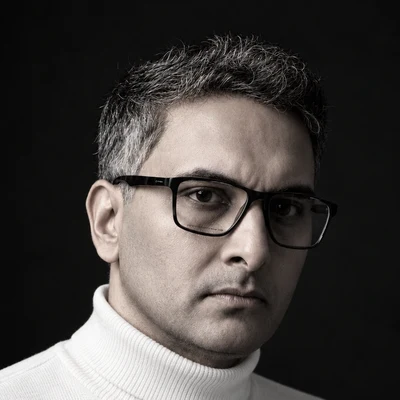
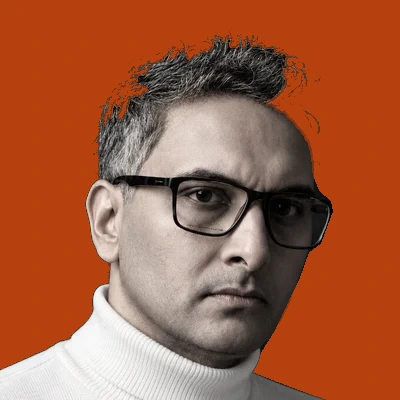
Swap profile photo background from black to rust orange (#768)
* Remove Teams bullet from MCP paper Section 8

Claude-Session: https://claude.ai/code/session_01F9hf69ZYgcNTzfBFq3dRjc

* Papers: remove in-progress tag from MCP article, add date December 16, 2025

Claude-Session: https://claude.ai/code/session_01F9hf69ZYgcNTzfBFq3dRjc

* Papers: add subtitle to MCP article

Claude-Session: https://claude.ai/code/session_01F9hf69ZYgcNTzfBFq3dRjc

* Papers: remove italics from subtitle

Claude-Session: https://claude.ai/code/session_01F9hf69ZYgcNTzfBFq3dRjc

* Papers: match MCP subtitle styling to Uncork

Claude-Session: https://claude.ai/code/session_01F9hf69ZYgcNTzfBFq3dRjc

* Papers: add last-updated date to Uncork paper

Claude-Session: https://claude.ai/code/session_01F9hf69ZYgcNTzfBFq3dRjc

* Papers: set Uncork date to November 1, 2026

Claude-Session: https://claude.ai/code/session_01F9hf69ZYgcNTzfBFq3dRjc

* Swap profile photo background from black to rust orange

Claude-Session: https://claude.ai/code/session_01F9hf69ZYgcNTzfBFq3dRjc

---------

diff --git a/experiments/design-for-social-good.html b/experiments/design-for-social-good.html
@@ -582,7 +582,7 @@
             <div>
                 <div class="sidebar-header">
                 <div class="profile-section">
-                    <img src="../Images/profile.webp?v=2" alt="Sheldon De Sousa" class="profile-image">
+                    <img src="../Images/profile.webp?v=3" alt="Sheldon De Sousa" class="profile-image">
                     <h1>Sheldon <br>De Sousa</h1>
                 </div>
                 <button class="hamburger" aria-label="Toggle navigation" onclick="toggleNav(this)">

diff --git a/about.html b/about.html
@@ -548,7 +548,7 @@
             <div>
                 <div class="sidebar-header">
                 <div class="profile-section">
-                    <img src="Images/profile.webp?v=2" alt="Sheldon De Sousa" class="profile-image">
+                    <img src="Images/profile.webp?v=3" alt="Sheldon De Sousa" class="profile-image">
                     <h1>Sheldon <br>De Sousa</h1>
                 </div>
                 <button class="hamburger" aria-label="Toggle navigation" onclick="toggleNav(this)">

diff --git a/index.html b/index.html
@@ -593,7 +593,7 @@
             <div>
                 <div class="sidebar-header">
                 <div class="profile-section">
-                    <img src="Images/profile.webp?v=2" alt="Sheldon De Sousa" class="profile-image">
+                    <img src="Images/profile.webp?v=3" alt="Sheldon De Sousa" class="profile-image">
                     <h1>Sheldon <br>De Sousa</h1>
                 </div>
                 <button class="hamburger" aria-label="Toggle navigation" onclick="toggleNav(this)">

diff --git a/papers.html b/papers.html
@@ -637,7 +637,7 @@
             <div>
                 <div class="sidebar-header">
                 <div class="profile-section">
-                    <img src="Images/profile.webp?v=2" alt="Sheldon De Sousa" class="profile-image">
+                    <img src="Images/profile.webp?v=3" alt="Sheldon De Sousa" class="profile-image">
                     <h1>Sheldon <br>De Sousa</h1>
                 </div>
                 <button class="hamburger" aria-label="Toggle navigation" onclick="toggleNav(this)">

diff --git a/personal-projects.html b/personal-projects.html
@@ -560,7 +560,7 @@
             <div>
                 <div class="sidebar-header">
                 <div class="profile-section">
-                    <img src="Images/profile.webp?v=2" alt="Sheldon De Sousa" class="profile-image">
+                    <img src="Images/profile.webp?v=3" alt="Sheldon De Sousa" class="profile-image">
                     <h1>Sheldon <br>De Sousa</h1>
                 </div>
                 <button class="hamburger" aria-label="Toggle navigation" onclick="toggleNav(this)">

diff --git a/social-experiments.html b/social-experiments.html
@@ -531,7 +531,7 @@
             <div>
                 <div class="sidebar-header">
                 <div class="profile-section">
-                    <img src="Images/profile.webp?v=2" alt="Sheldon De Sousa" class="profile-image">
+                    <img src="Images/profile.webp?v=3" alt="Sheldon De Sousa" class="profile-image">
                     <h1>Sheldon <br>De Sousa</h1>
                 </div>
                 <button class="hamburger" aria-label="Toggle navigation" onclick="toggleNav(this)">

diff --git a/working-with-ai.html b/working-with-ai.html
@@ -533,7 +533,7 @@
             <div>
                 <div class="sidebar-header">
                 <div class="profile-section">
-                    <img src="Images/profile.webp?v=2" alt="Sheldon De Sousa" class="profile-image">
+                    <img src="Images/profile.webp?v=3" alt="Sheldon De Sousa" class="profile-image">
                     <h1>Sheldon <br>De Sousa</h1>
                 </div>
                 <button class="hamburger" aria-label="Toggle navigation" onclick="toggleNav(this)">
